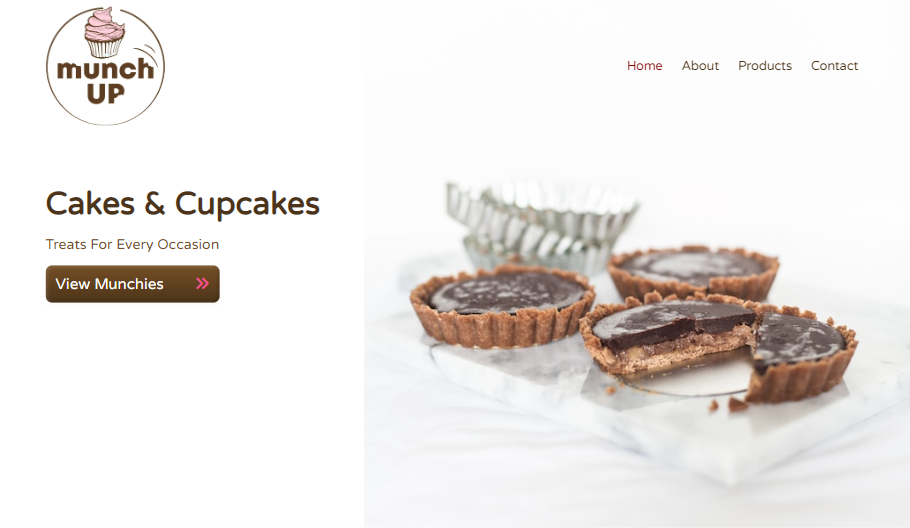
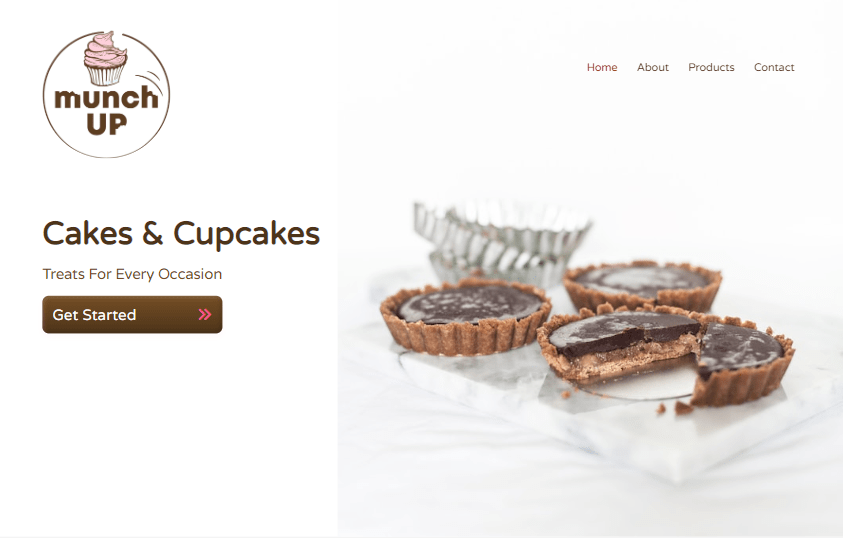
work img

diff --git a/sass/_work.scss b/sass/_work.scss
@@ -267,7 +267,7 @@
                     // height: 50vh;
                     overflow: hidden;
                     width: 100%;
-                    // border: 2px solid $overlay-blue-darkest;
+                    // border: 2px solid #0001;
                     // border-radius: .25rem;
                     // margin: 0 auto;
                     img {
@@ -277,6 +277,7 @@
                         transition: .5s;
                         // border: 2px solid pink;
                         @include lg {
+                            border: 1px solid #0002;
                             border-radius: .25rem;
                         }
                     }

diff --git a/index.html b/index.html
@@ -296,7 +296,7 @@
           <div class="item-flex-container">
             <div class="item-content">
               <figure class="item-image">
-                <img src="img/munch-desk.png" alt="Orich Trading & Projects logo">
+                <img src="img/munch-up-desk.png" alt="Munch Up logo">
               </figure>
             </div>
             <div class="item-header">

diff --git a/css/style.css b/css/style.css
@@ -3410,6 +3410,7 @@ hamburger
 }
 @media (min-width: 820px) {
   .work .work-container .item .item-content .item-image img {
+    border: 1px solid #0002;
     border-radius: 0.25rem;
   }
 }
